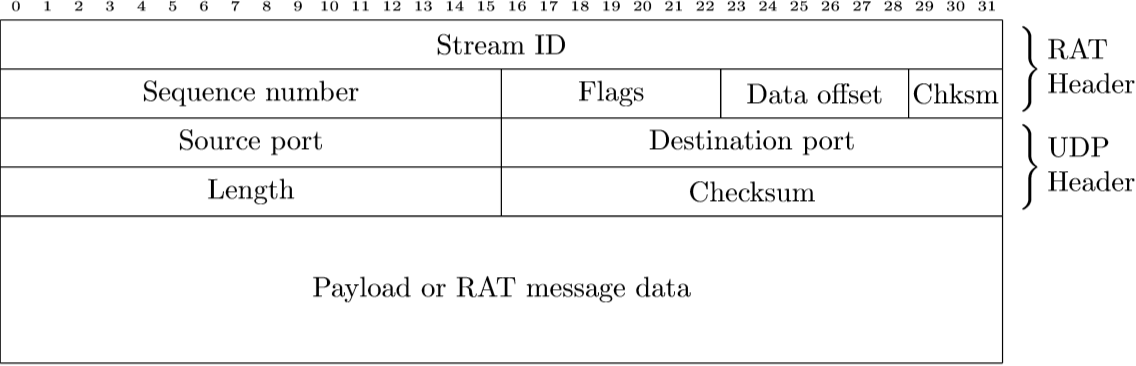
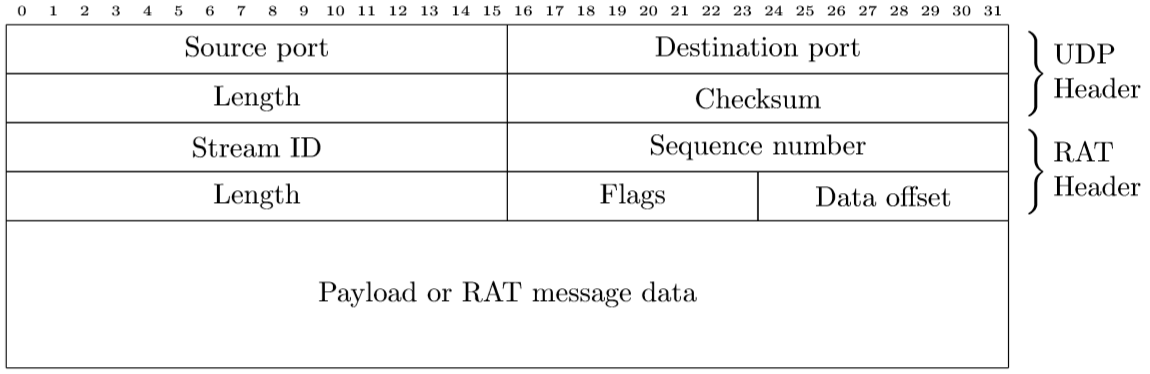
Update with new spec changes

Changed region(s): [[0.0, 0.0, 1.0, 1.0], [0.2773, 0.7514, 0.6162, 0.8415]]

diff --git a/README.md b/README.md
@@ -1,5 +1,5 @@
 # rat-transport-protocol
-The Reliable As TCP (RAT) protocol is a connection-oriented transport-layer extension on top of UDP that extends UDP to provide a similar level of reliability as TCP. Like TCP, it supports window-based flow control and byte-stream semantics, but focuses on implementing reliability as simply as possible.
+The Reliable As TCP (RAT) protocol is a connection-oriented transport-layer extension on top of UDP that extends UDP to provide a similar level of reliability as TCP. Like TCP, it supports window-based flow control and byte-stream semantics, but focuses on implementing reliability as simply as possible
 
 #### Answers to common questions
 Included below are short answers to common questions regarding reliable transport, which will be expanded in further detail later in the specification.
@@ -11,7 +11,6 @@ RAT handles retransmission by the use of `ACK` and `NACK` overhead messages, whe
 RAT includes multiple methods of detecting packet corruption:
  * **A unique stream ID** assigned by the server to a client, which must match on both ends
  * **A single sequence number**
- * **A simple checksum** of a set of message flag fields
  * **UDP's checksum**, as RAT is built on top of UDP
 
 ##### Duplicate packets?
@@ -24,14 +23,30 @@ All RAT streams are _uni-directional_ at any given point in time. Client and ser
 The full RAT header is 8 bytes in size, and is built on top of a UDP datagram:
 
 <img src="https://raw.githubusercontent.com/OzuYatamutsu/rat-transport-protocol/master/img/latex-rendered-datagram.png" />
+
+#### UDP header
+Base methods and values (such as service selection, payload length, and UDP checksum) are handled by the encompassing UDP header:
+
+##### Source port
+The source port is a **16-bit** value (0-65535) which identifies the source communication endpoint for a RAT connection stream. A port number is used to identify a service running on a server, or used to identify a connection stream on a client.
+
+##### Destination port
+The destination port is a **16-bit** value (0-65535) which identifies the destination communication endpoint for a RAT connection stream. A port number is used to identify a service running on a server, or used to identify a connection stream on a client.
+
+##### Length
+The length field is a **16-bit** field that specifies the total length, in bytes, of the UDP header and payload.
+
+##### Checksum
+The checksum field is a **16-bit** field that is used for error-checking of the UDP header and payload.
+
 #### Stream ID
-The stream ID is temporally unique **32-bit** identifier used to uniquely identify an active data stream at any moment in time. Stream IDs are *server-significant*, and are assigned and used by the server to uniquely identify a connection stream to a specific client. In the initial connection from client to server, this value is set to 0 by the client until the server assigns one.
+The stream ID is temporally unique **16-bit** identifier used to uniquely identify an active data stream at any moment in time. Stream IDs are *server-significant*, and are assigned and used by the server to uniquely identify a connection stream of a specific client. In the initial connection from client to server, this value is set to 0 by the client until the server assigns one.
 #### Sequence number
 A sequence number is an **16-bit** number that identifies the current segment in a RAT connection stream.
 #### Flags
-The flags field is a **7-bit** series of flag bits which identify specific RAT overhead message types. Field bits are specified in order below, and are also generally ordered from most-to-least used.
+The flags field is a **8-bit** series of flag bits which identify specific RAT overhead message types. Field bits are specified in order below, and are also generally ordered from most-to-least used.
 
-Field bits may also include additional overhead data in the payload - the amount of additional overhead data carried, in bytes, is specified in the data offset headnumcoer. If field bits do not require additional overhead data, they can be set along with data streams.
+Field bits may also include additional overhead data in the payload - the amount of additional overhead data carried, in bytes, is specified in the data offset header. If field bits do not require additional overhead data, they can be set along with data streams.
 ##### ACK
 If this bit is set, this message is an acknowledgement that a message or series of messages were receieved successfully.
 ##### NACK
@@ -46,9 +61,11 @@ If this bit is set, this message is a RAT keep-alive message, signaling to the s
 If this bit is set, this message is a request to connect a client to a server.
 ##### BYE
 If this bit is set, this message is a request to disconnect a client from a server.
+##### Future use
+The last flag bit is reserved for future use.
 
 #### Data offset
-This is an **6-bit** value which specifies the amount of additional **16-byte words** of overhead this RAT segment needs to store in the payload relating to one or more set flags. In general, if this value is anything other than 0, the RAT message data is carried in lieu of a data payload.
+This is an **8-bit** value which specifies the amount of additional **16-byte words** of overhead this RAT segment needs to store in the payload relating to one or more set flags. In general, if this value is anything other than 0, the RAT message data is carried in lieu of a data payload.
 
 Some examples of this additional data are:
 
@@ -58,21 +75,6 @@ Some examples of this additional data are:
 
 #### Flag checksum
 A field that simply stores the sum of the flags and data offset fields as a **3-bit unsigned integer** (overflow is expected). If the value in this field does not match the 3-bit sum of the fields, an error is detected and the segment is discarded.
-
-#### UDP header
-Other methods and values (such as service selection, payload length, and UDP checksum) are handled by the underlying UDP header:
-
-##### Source port
-The source port is a **16-bit** value (0-65535) which identifies the source communication endpoint for a RAT connection stream. A port number is used to identify a service running on a server, or used to identify a connection stream on a client.
-
-##### Destination port
-The destination port is a **16-bit** value (0-65535) which identifies the destination communication endpoint for a RAT connection stream. A port number is used to identify a service running on a server, or used to identify a connection stream on a client.
-
-##### Length
-The length field is a **16-bit** field that specifies the total length, in bytes, of the UDP header and payload.
-
-##### Checksum
-The checksum field is a **16-bit** field that is used for error-checking of the UDP header and payload.
 
 ## Methods
 A RAT API implementation must implement the following methods:
